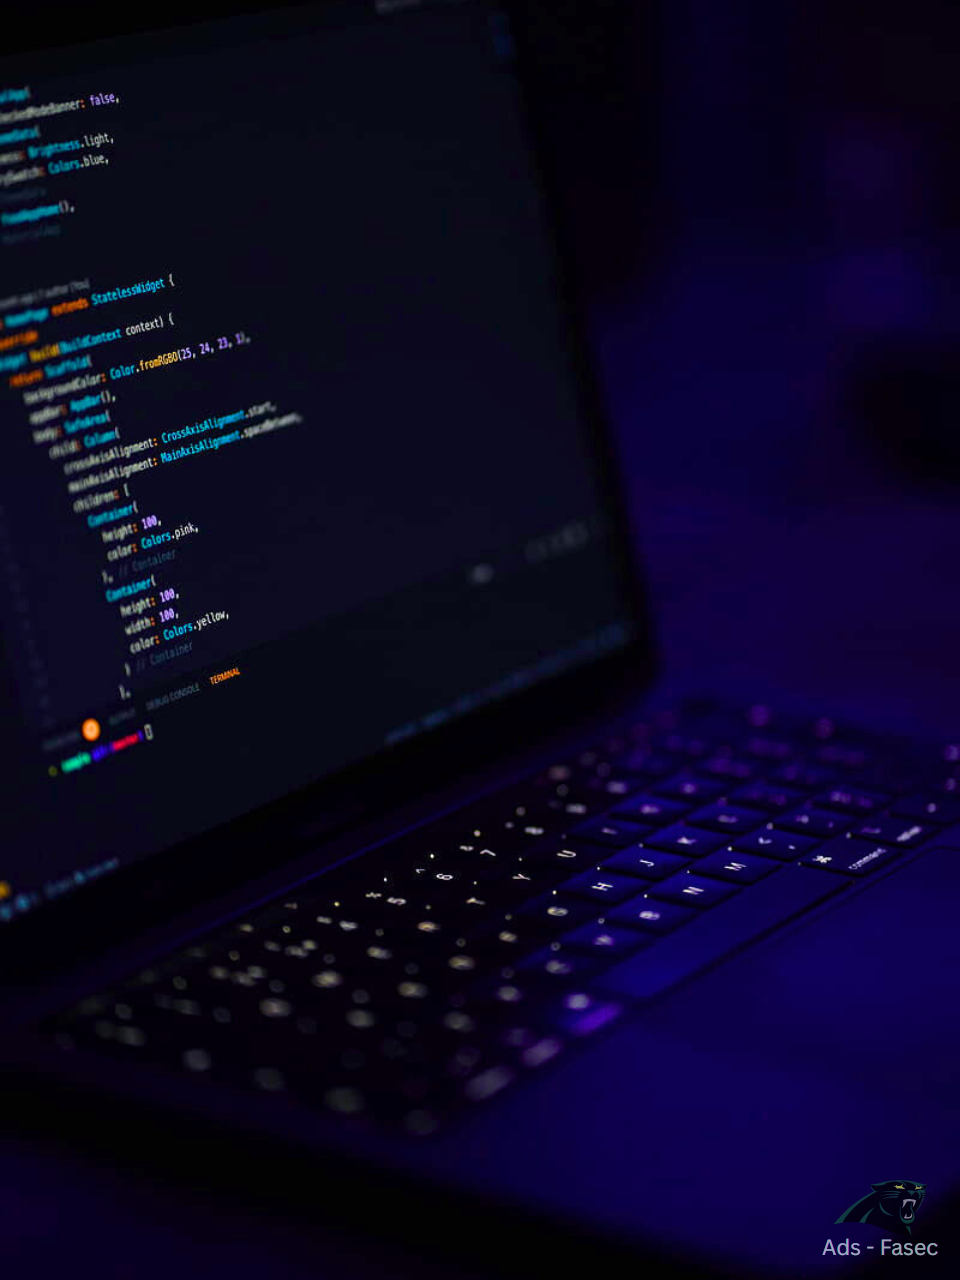
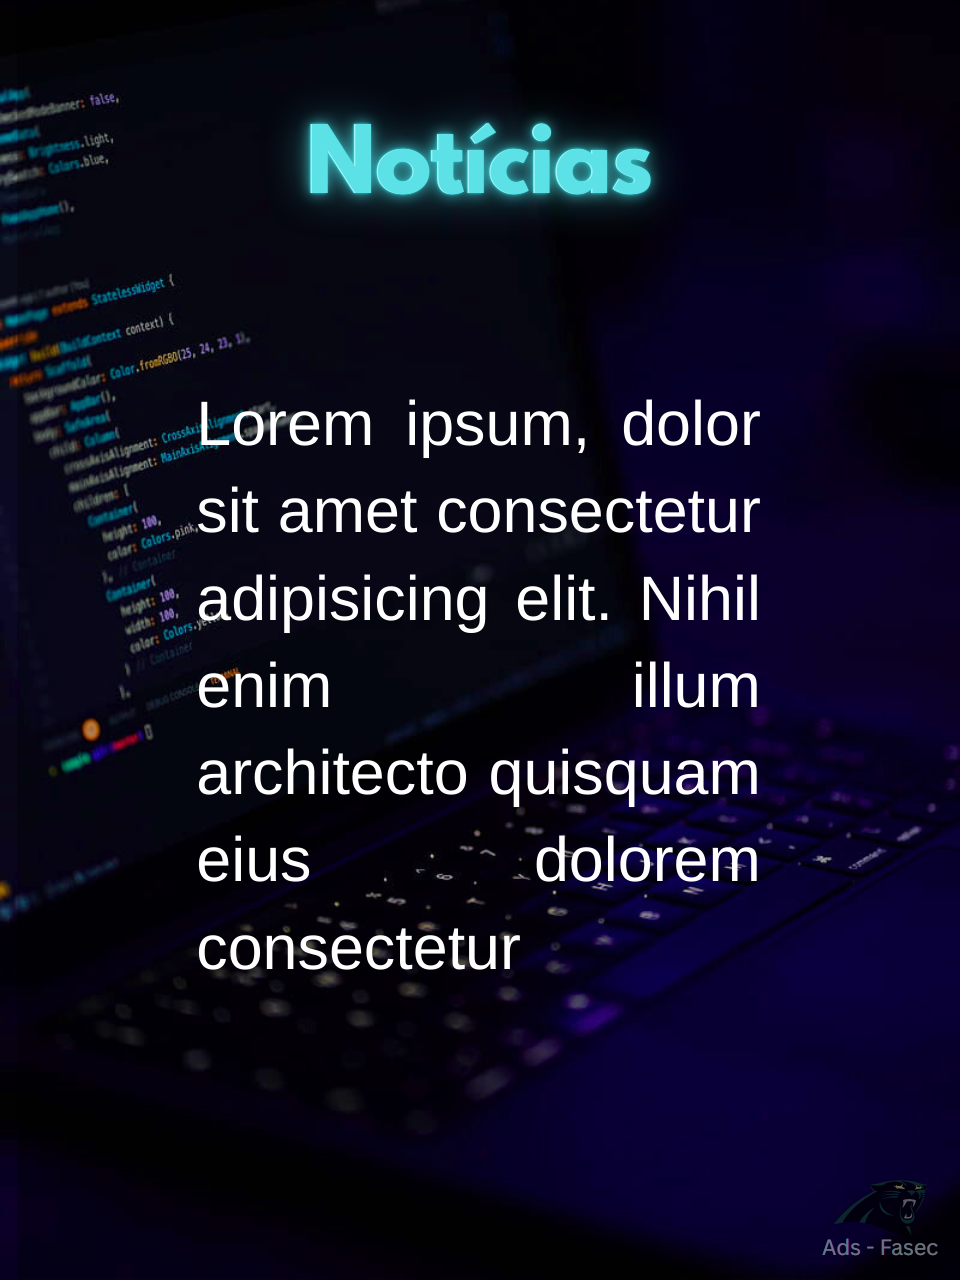
Add files via upload

diff --git a/index.html b/index.html
@@ -94,46 +94,22 @@
             <div class="carousel-slide">
                 <div class="carousel-item">
                     <a href="SubPaginas/atletica.html"><img src="imagens/Ads - Fasec 3.png" alt="Imagem 3">
-                        <div class="text-overlay">
-                            <h2>Atlética</h2>
-                            <p>Lorem ipsum dolor sit, amet consectetur adipisicing elit. Reprehenderit obcaecati iste,
-                                quae eum accusantium dicta cumque!</p>
-                        </div>
                     </a>
                 </div>
                 <div class="carousel-item">
                     <a href="SubPaginas/noticias.html"><img src="imagens/Ads - Fasec 1.png" alt="Imagem 1">
-                        <div class="text-overlay">
-                            <h2>Notícias</h2>
-                            <p>Lorem ipsum dolor, sit amet consectetur adipisicing elit. Quibusdam quae fuga inventore,
-                                officiis ipsam nostrum </p>
-                        </div>
                     </a>
                 </div>
                 <div class="carousel-item">
                     <a href="SubPaginas/sobre.html"><img src="imagens/Ads - Fasec 2.png" alt="Imagem 2">
-                        <div class="text-overlay">
-                            <h2>Sobre</h2>
-                            <p>Lorem ipsum, dolor sit amet consectetur adipisicing elit. Nihil enim illum architecto
-                                quisquam eius dolorem consectetur</p>
-                        </div>
                     </a>
                 </div>
                 <div class="carousel-item">
                     <a href="SubPaginas/atletica.html"><img src="imagens/Ads - Fasec 3.png" alt="Imagem 3">
-                        <div class="text-overlay">
-                            <h2>Atlética</h2>
-                            <p>Lorem ipsum dolor, sit amet consectetur adipisicing elit. Nobis quisquam ipsa dignissimos veniam, dolorum eligendi</p>
-                        </div>
                     </a>
                 </div>
                 <div class="carousel-item">
                     <a href="#"><img src="imagens/Ads - Fasec 1.png" alt="Imagem 1">
-                        <div class="text-overlay">
-                            <h2>Notícias</h2>
-                            <p>Lorem ipsum dolor, sit amet consectetur adipisicing elit. Quibusdam quae fuga inventore,
-                                officiis ipsam nostrum </p>
-                        </div>
                     </a>
                 </div>
             </div>

diff --git a/script.js b/script.js
@@ -78,6 +78,7 @@ function acionar_input() {
 let currentIndex = 1;
 let startX;
 let isDragging = false;
+let autoSlideInterval;
 
 const slides = document.querySelector('.carousel-slide');
 const totalSlides = slides.children.length;
@@ -127,9 +128,15 @@ function autoSlide() {
     moveSlide(1);
 }
 
+function resetAutoSlide() {
+    clearInterval(autoSlideInterval);
+    autoSlideInterval = setInterval(autoSlide, intervalTime);
+}
+
 document.querySelector('.carousel-slide').addEventListener('touchstart', (e) => {
     startX = e.touches[0].clientX;
     isDragging = true;
+    resetAutoSlide();
 });
 
 document.querySelector('.carousel-slide').addEventListener('touchmove', (e) => {
@@ -139,25 +146,23 @@ document.querySelector('.carousel-slide').addEventListener('touchmove', (e) => {
     if (diff > 50) {
         moveSlide(1);
         isDragging = false;
+        resetAutoSlide();
     } else if (diff < -50) {
         moveSlide(-1);
         isDragging = false;
+        resetAutoSlide();
     }
 });
 
 document.querySelector('.carousel-slide').addEventListener('touchend', () => {
     isDragging = false;
+    resetAutoSlide();
 });
 
 document.addEventListener('DOMContentLoaded', () => {
     slides.style.transform = `translateX(-${currentIndex * 33.33}%)`;
-    setInterval(autoSlide, intervalTime);
+    autoSlideInterval = setInterval(autoSlide, intervalTime);
 });
-
-
-
-
-
 
 
 window.onload = function () {

diff --git a/styles.css b/styles.css
@@ -839,43 +839,6 @@
         position: relative;
     }
 
-    .text-overlay {
-        position: absolute;
-        top: 0;
-        left: 0;
-        right: 0;
-        bottom: 0;
-        display: flex;
-        flex-direction: column;
-        color: white;
-        background-color: rgba(0, 0, 0, 0.452);
-        font-size: 16px;
-        text-align: center;
-        border-radius: 5px;
-        margin: 3%;
-        margin-top: 0;
-        margin-bottom: 4px;
-    }
-
-    .text-overlay h2 {
-        margin-top: 10%;
-        font-size: 35px;
-        text-shadow: 0px 0px 8px #0678b6,
-            0px 0px 12px #0678b6,
-            0px 0px 8px #0678b6;
-
-    }
-
-    .text-overlay p {
-        padding-left: 16%;
-        padding-right: 16%;
-        font-size: 22px;
-        text-align: justify;
-        display: flex;
-        margin-top: 10%;
-        margin-bottom: 10%;
-    }
-
 
     .conteudo {
         margin-top: 185px;
